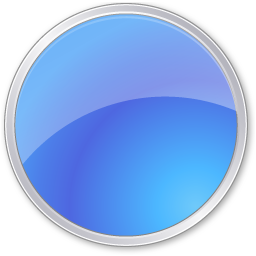
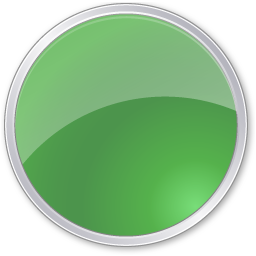
fix categories decorator and switch consumer <-> provider images

diff --git a/app/services/category_service.rb b/app/services/category_service.rb
@@ -1,15 +1,18 @@
 class CategoryService
 
   def self.all
-    CategoryDecorator.all
+    categories = CategoryDecorator.all
+    CategoryDecorator.decorate(categories)
   end
 
   def self.enabled
-    CategoryDecorator.where("code != 'undefined'")
+    categories = CategoryDecorator.where("code != 'undefined'")
+    CategoryDecorator.decorate(categories)
   end
 
   def self.find(id)
-    CategoryDecorator.find id
+    category = CategoryDecorator.find(1)
+    CategoryDecorator.decorate(category)
   end
 
 end
